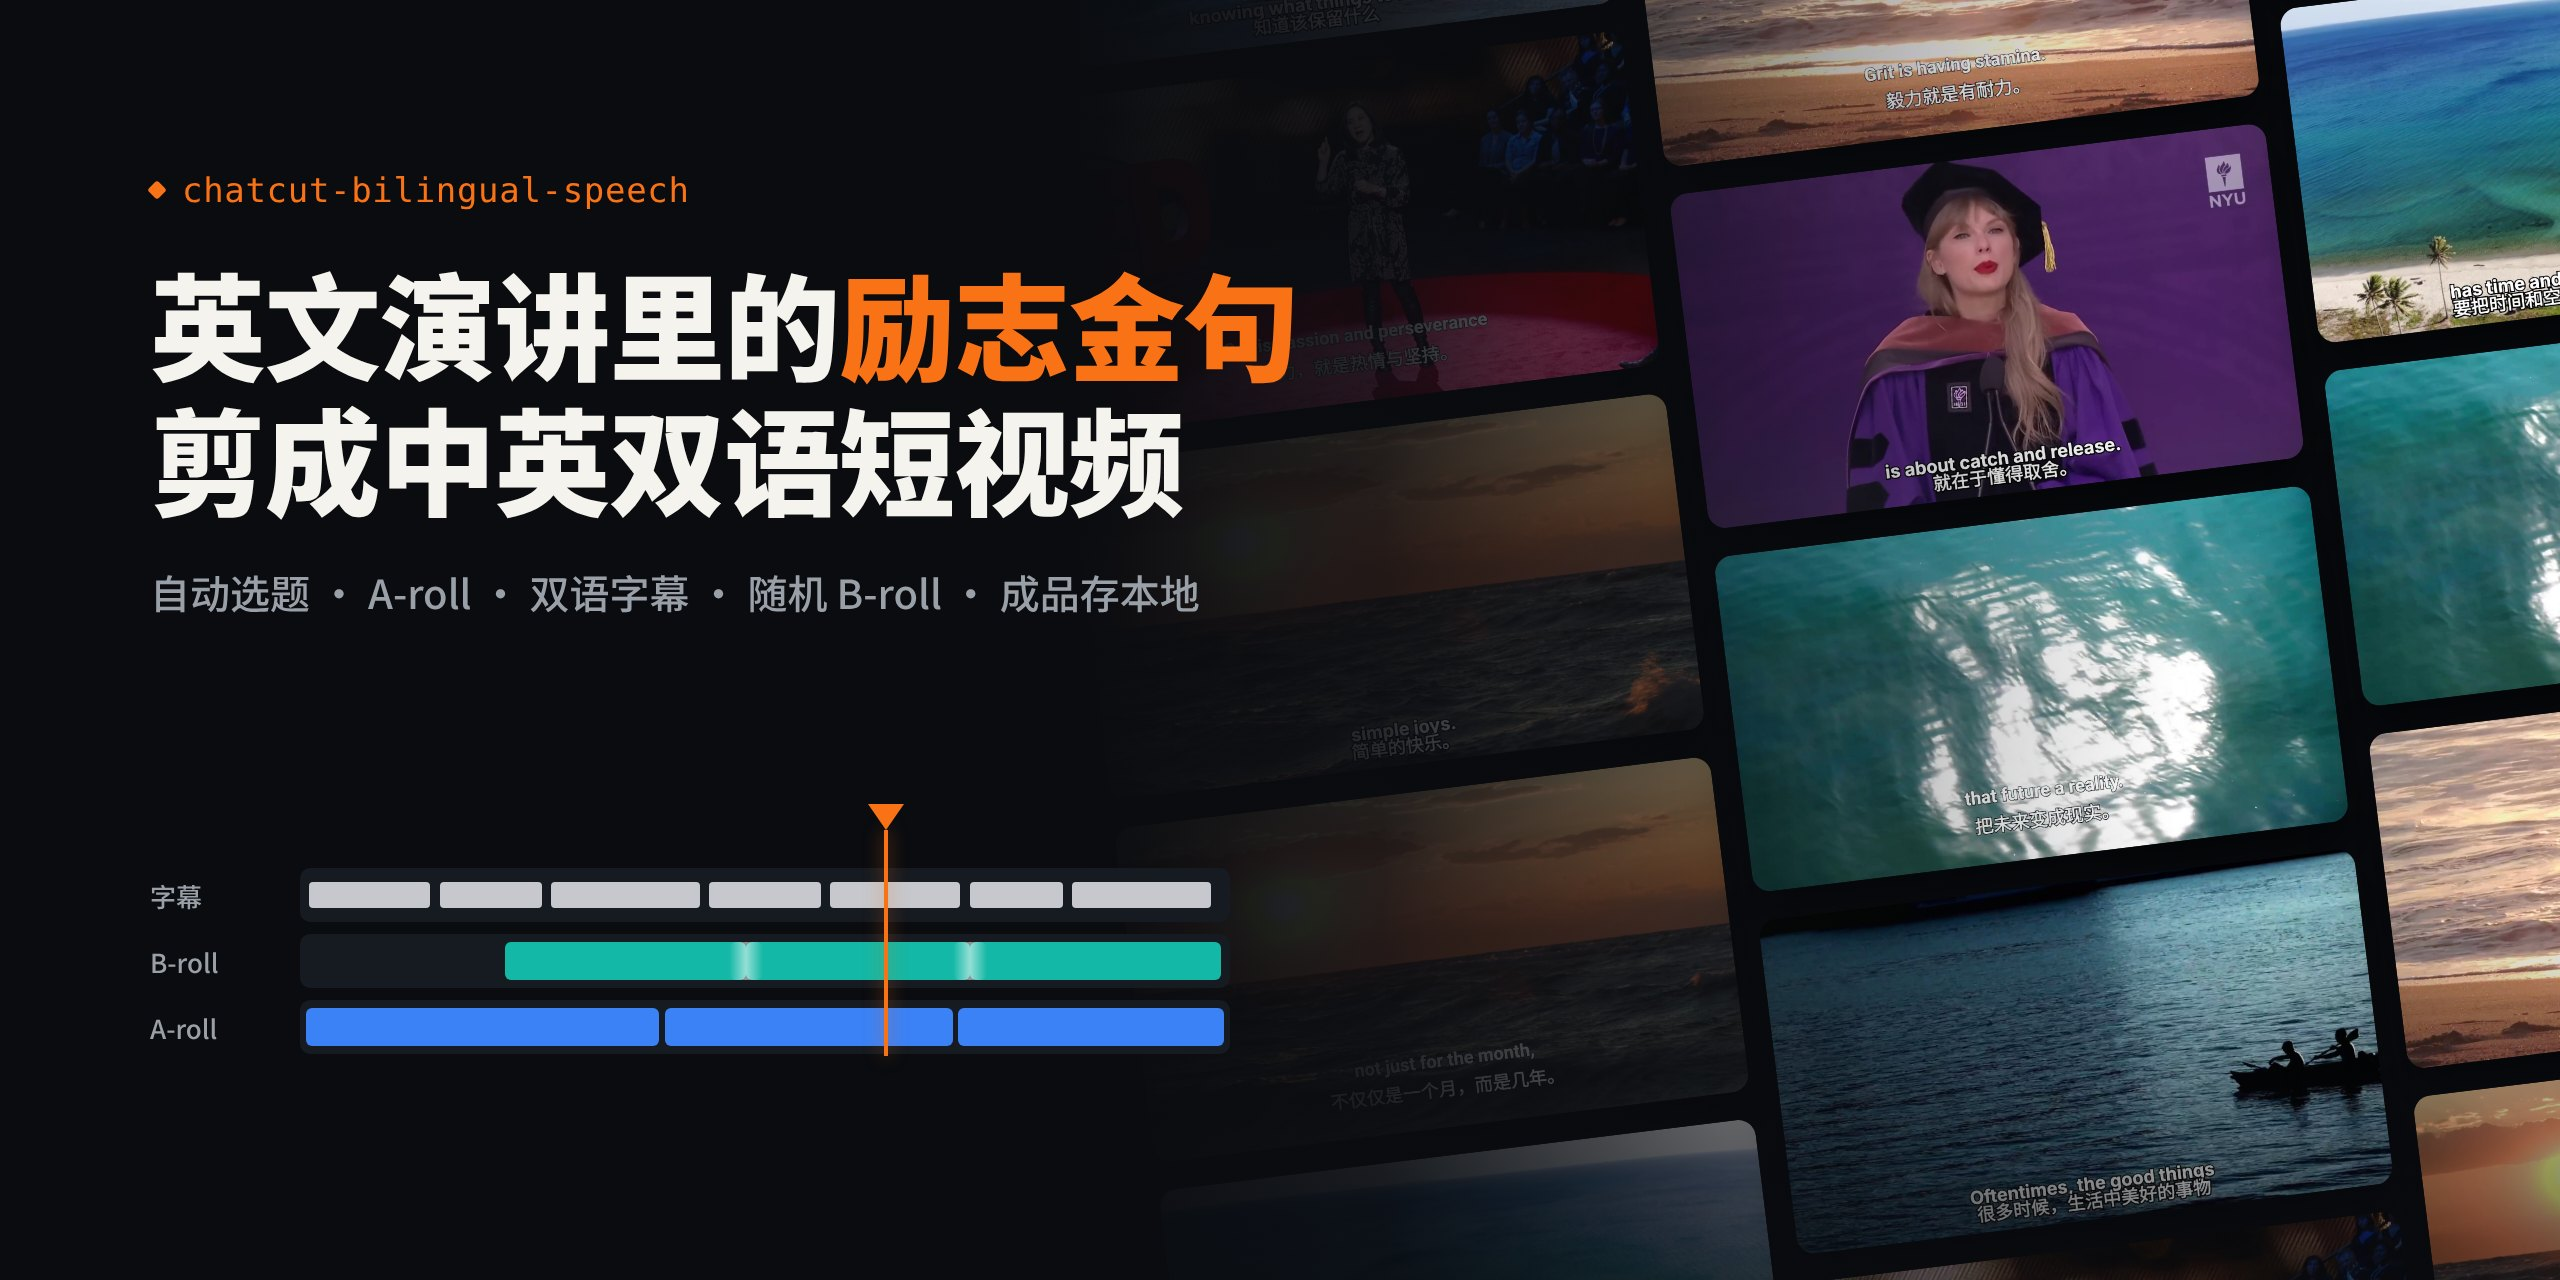
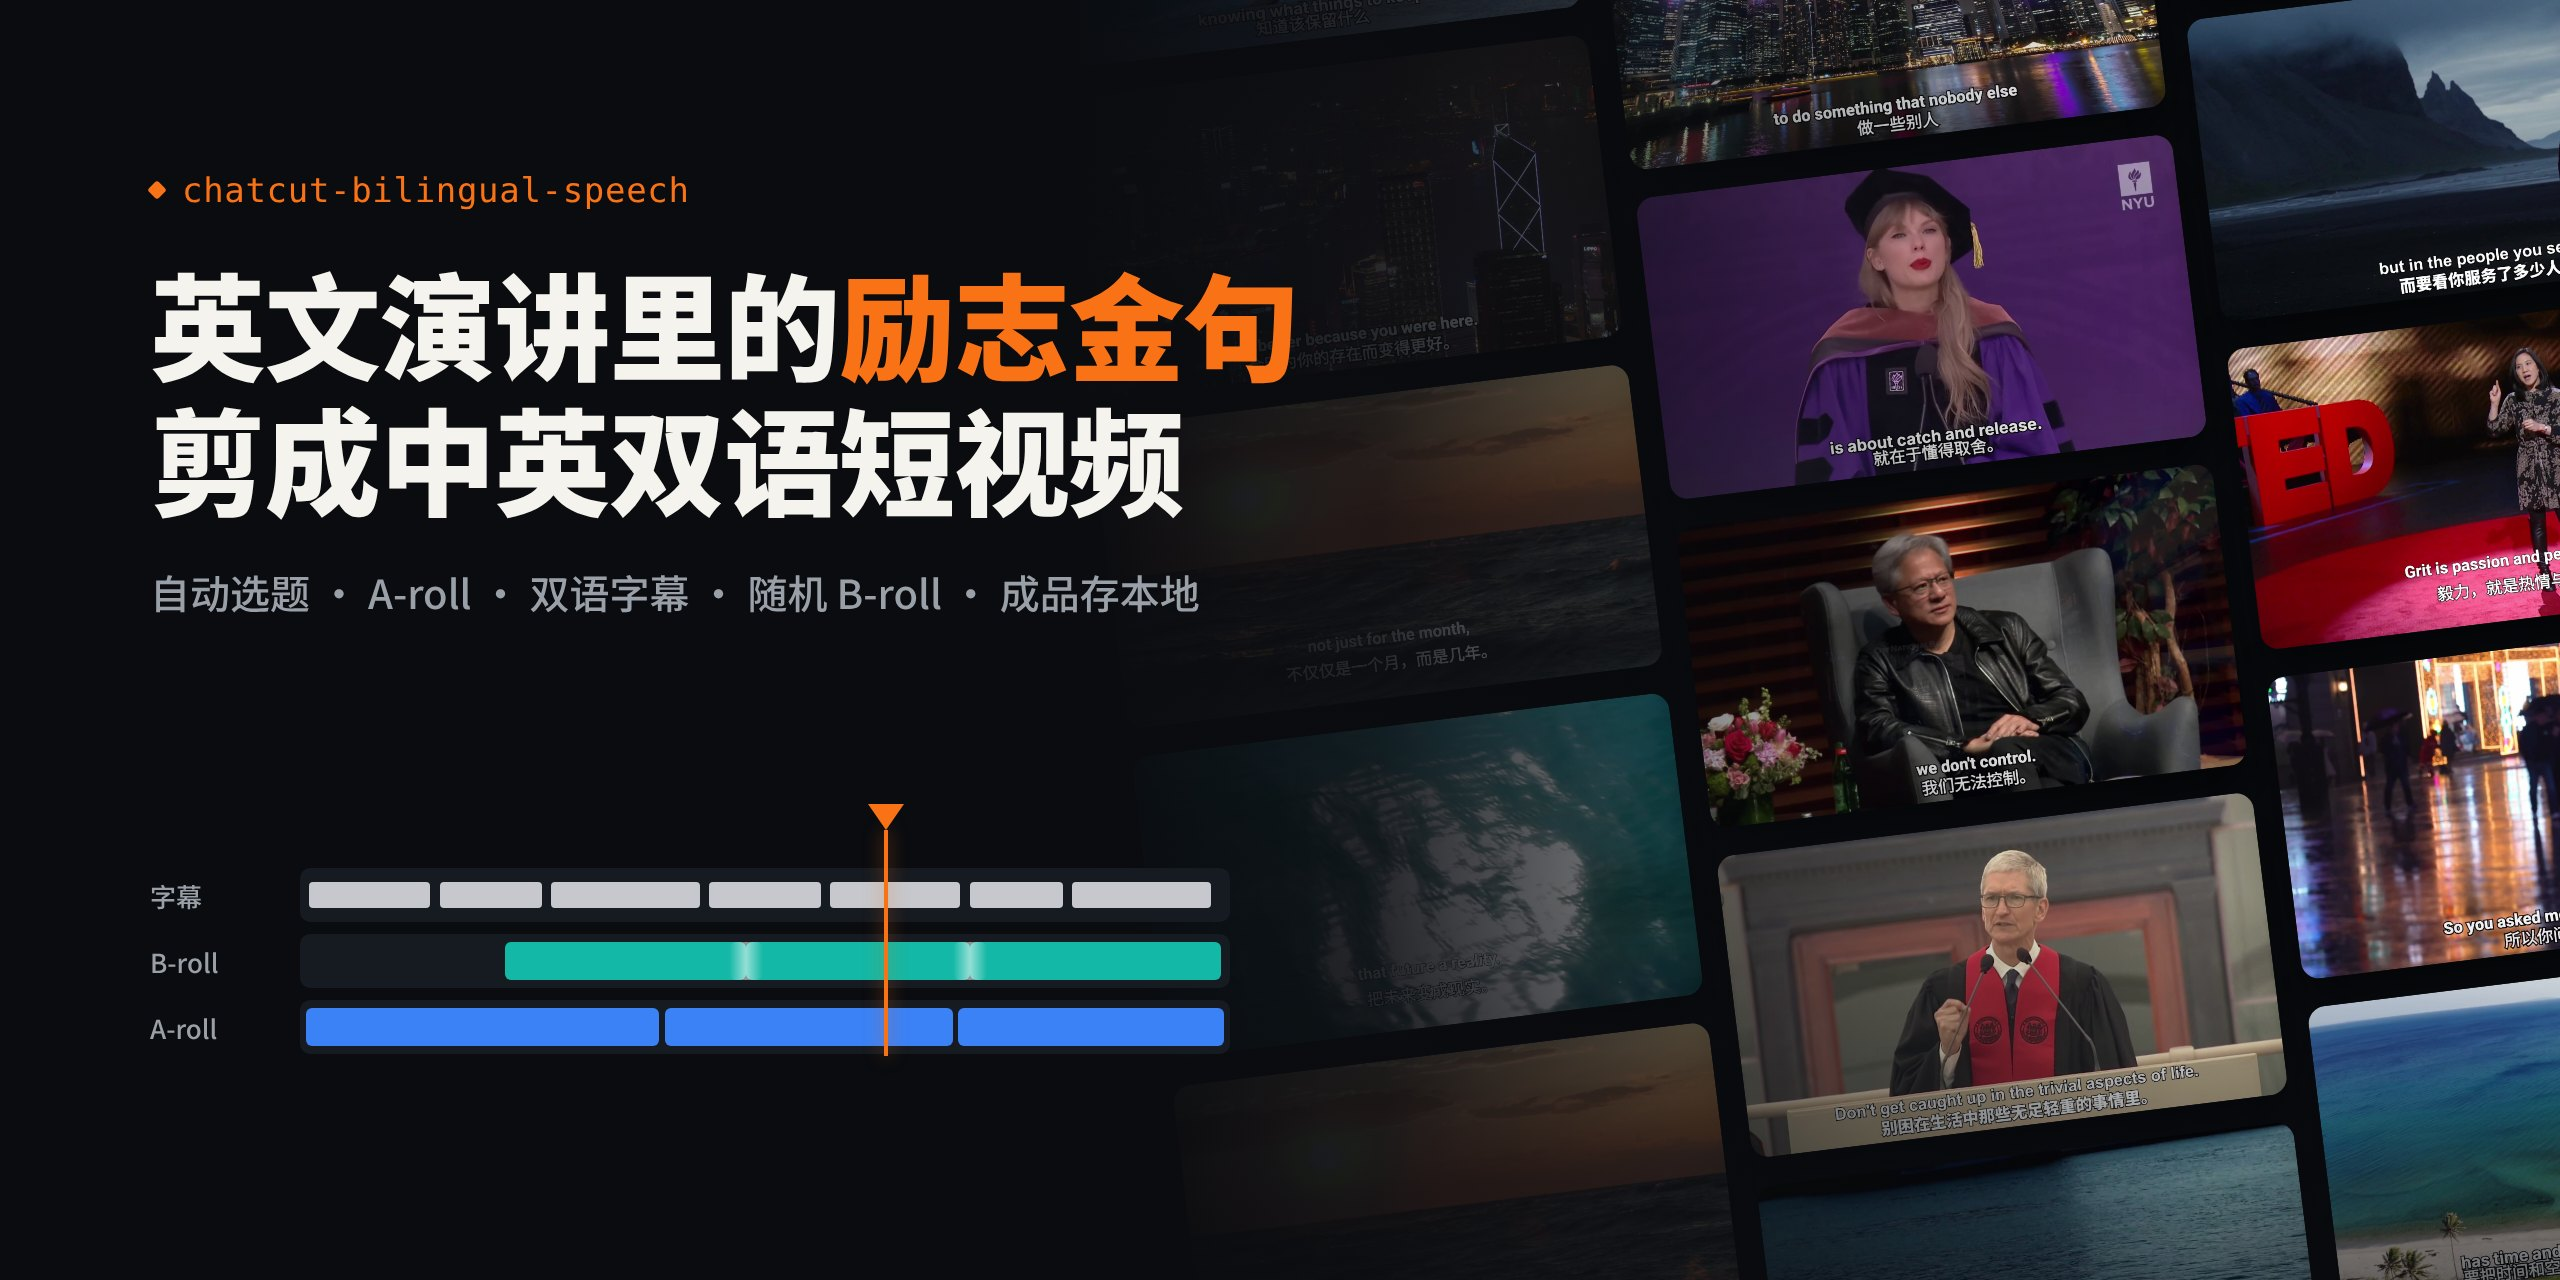
docs: 成品案例扩为四条并接入视频，头图加入黄仁勋与库克
- 案例改为 2×2 网格，点击封面播放 user-attachments 视频
- 新增折叠区，可在 README 页内直接播放全部样片
- 头图画面墙加入黄仁勋、蒂姆·库克

Claude-Session: https://claude.ai/code/session_01AAQ3RUjUYtLrRH7kvCAjdn

diff --git a/README.md b/README.md
@@ -38,27 +38,60 @@
 
 ## 成品案例
 
-两条样片分别来自两段不同的演讲，都由本 Skill 按六个节点完整走完：主题地图 → A-roll → 双语字幕 → 随机 B-roll → 导出到本地。点击封面观看成片。
+四条样片分别来自四段不同的演讲，都由本 Skill 完整走完：选题 → A-roll → 双语字幕 → 随机 B-roll → 导出到本地。**点击封面播放。**
 
 <table>
   <tr>
     <td width="50%" align="center" valign="top">
       <strong>把生活留给值得的人和事</strong><br>
       <sub>泰勒·斯威夫特 · 2022 纽约大学毕业演讲 · 37 秒</sub><br><br>
-      <!-- TODO(视频链接)：把下面的 href 换成 user-attachments 视频地址 -->
-      <a href="assets/examples/taylor-swift-worth-it-cover.jpg"><img src="assets/examples/taylor-swift-worth-it-cover.jpg" alt="成片一封面：泰勒·斯威夫特身穿纽约大学紫色博士袍演讲，底部双语字幕英文 is about catch and release.，中文 就在于懂得取舍。" width="400"></a>
+      <a href="https://github.com/user-attachments/assets/bba4e597-c5b5-4e02-9549-5233923adf8b"><img src="assets/examples/taylor-swift-worth-it-cover.jpg" alt="泰勒·斯威夫特身穿纽约大学紫色博士袍演讲，双语字幕 is about catch and release. / 就在于懂得取舍。" width="400"></a>
     </td>
     <td width="50%" align="center" valign="top">
       <strong>毅力，就是热情与坚持</strong><br>
       <sub>安吉拉·达克沃斯 · TED 演讲 · 26 秒</sub><br><br>
-      <!-- TODO(视频链接)：把下面的 href 换成 user-attachments 视频地址 -->
-      <a href="assets/examples/angela-duckworth-grit-cover.jpg"><img src="assets/examples/angela-duckworth-grit-cover.jpg" alt="成片二封面：安吉拉·达克沃斯站在 TED 舞台红色地毯上演讲，底部双语字幕英文 Grit is passion and perseverance，中文 毅力，就是热情与坚持。" width="400"></a>
+      <a href="https://github.com/user-attachments/assets/c9ec7ee7-e4c9-46ba-ae8a-7bed21bd6f5b"><img src="assets/examples/angela-duckworth-grit-cover.jpg" alt="安吉拉·达克沃斯在 TED 舞台演讲，双语字幕 Grit is passion and perseverance / 毅力，就是热情与坚持。" width="400"></a>
+    </td>
+  </tr>
+  <tr>
+    <td width="50%" align="center" valign="top">
+      <strong>做出只属于你的贡献</strong><br>
+      <sub>黄仁勋 · 对谈 · 41 秒</sub><br><br>
+      <a href="https://github.com/user-attachments/assets/20b88cde-d3a8-4e6d-a7c2-dd03dcecf62d"><img src="assets/examples/jensen-huang-cover.jpg" alt="黄仁勋身穿皮夹克坐在扶手椅上对谈，双语字幕 we don't control. / 我们无法控制。" width="400"></a>
+    </td>
+    <td width="50%" align="center" valign="top">
+      <strong>用你触动的生命衡量自己</strong><br>
+      <sub>蒂姆·库克 · 2017 MIT 毕业演讲 · 40 秒</sub><br><br>
+      <a href="https://github.com/user-attachments/assets/fff07ac3-496f-42c3-8473-74265ec1ab28"><img src="assets/examples/tim-cook-cover.jpg" alt="蒂姆·库克身穿学位袍在讲台演讲，双语字幕 Don't get caught up in the trivial aspects of life. / 别困在生活中那些无足轻重的事情里。" width="400"></a>
     </td>
   </tr>
 </table>
 
+<details>
+<summary><strong>▶ 在本页直接播放全部样片</strong></summary>
+
+<br>
+
+**把生活留给值得的人和事** · 泰勒·斯威夫特
+
+https://github.com/user-attachments/assets/bba4e597-c5b5-4e02-9549-5233923adf8b
+
+**毅力，就是热情与坚持** · 安吉拉·达克沃斯
+
+https://github.com/user-attachments/assets/c9ec7ee7-e4c9-46ba-ae8a-7bed21bd6f5b
+
+**做出只属于你的贡献** · 黄仁勋
+
+https://github.com/user-attachments/assets/20b88cde-d3a8-4e6d-a7c2-dd03dcecf62d
+
+**用你触动的生命衡量自己** · 蒂姆·库克
+
+https://github.com/user-attachments/assets/fff07ac3-496f-42c3-8473-74265ec1ab28
+
+</details>
+
 - **A-roll**：开头是演讲原画面，抛出主题句；原声全程保留，没有背景音乐。
-- **B-roll**：从用户确认的切入点开始，接入从素材库随机抽到的海浪、日落等风景素材，静音、叠化衔接。
+- **B-roll**：从用户确认的切入点开始，接入从素材库随机抽到的海浪、日落、城市夜景等风景素材，静音、叠化衔接。
 - **字幕**：英上中下、白色粗体黑描边，每种语言一行，B-roll 段同样保持同步。
 
 <div align="right"><a href="#readme-top">↑ 回到顶部</a></div>
